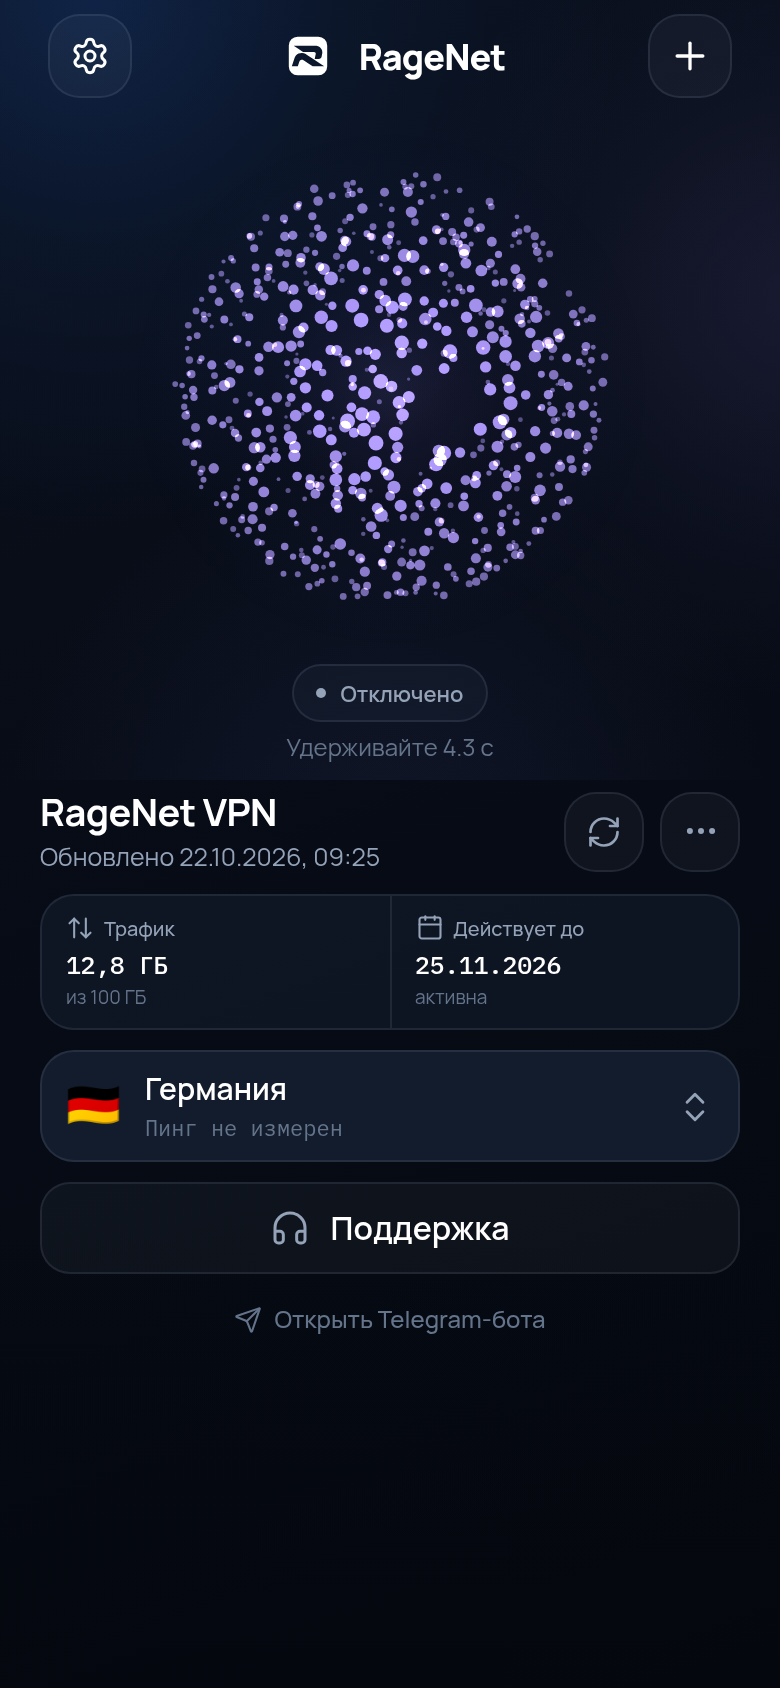
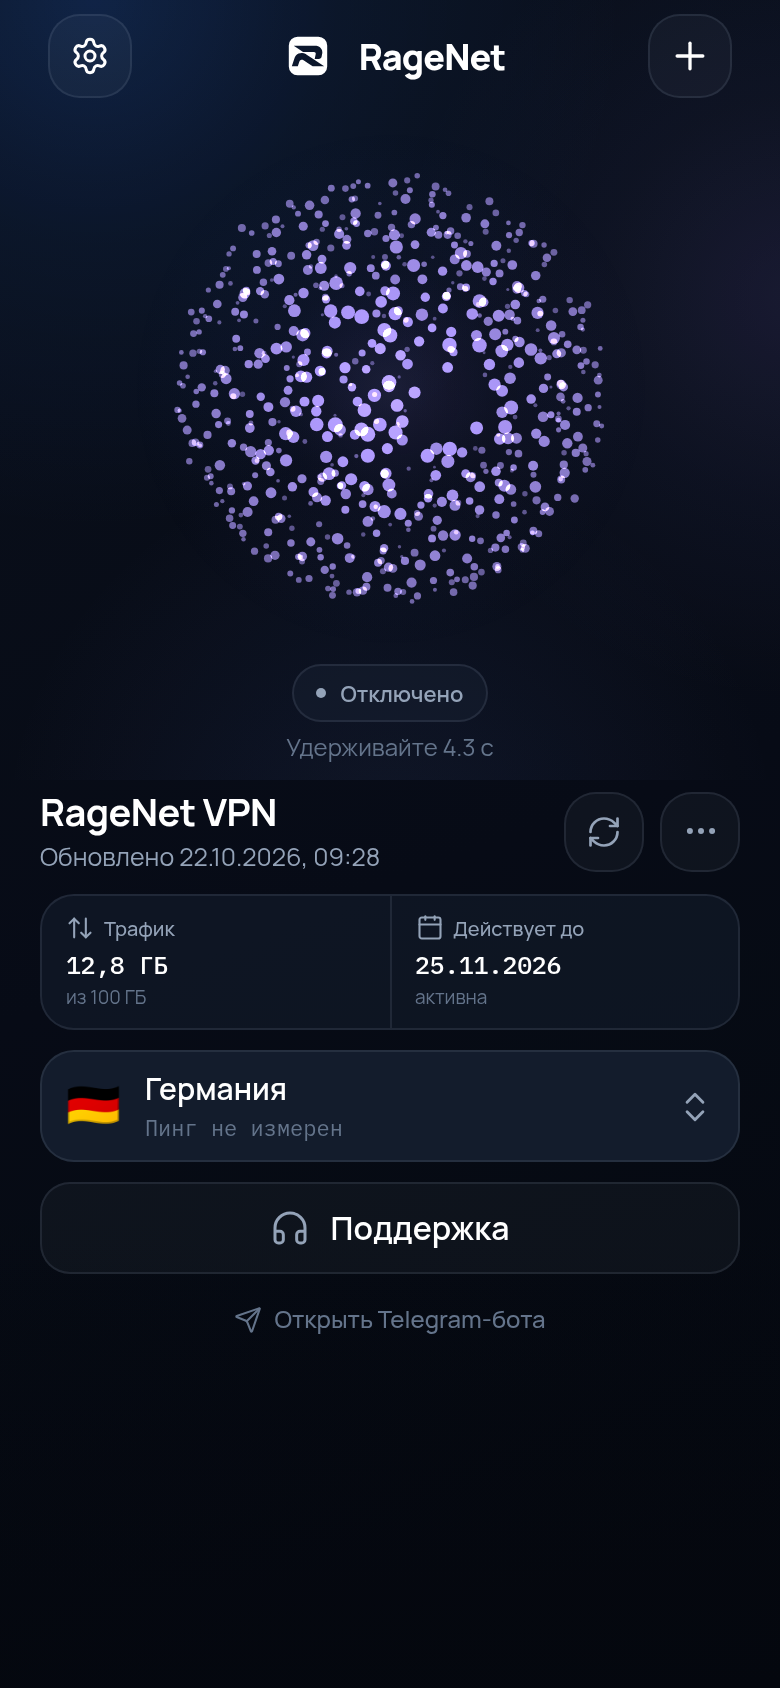
fix(ui): let the resting wave play before connecting

Changed region(s): [[0.2154, 0.0924, 0.7692, 0.3697]]

diff --git a/packages/ui/src/components/particles/ParticleSphere.tsx b/packages/ui/src/components/particles/ParticleSphere.tsx
@@ -49,6 +49,7 @@ export function ParticleSphere({
   const pressStartedAt = useRef(0);
   const holdTimer = useRef<ReturnType<typeof setTimeout> | null>(null);
   const chargeTimer = useRef<ReturnType<typeof setInterval> | null>(null);
+  const tapTimer = useRef<ReturnType<typeof setTimeout> | null>(null);
   const lastPoint = useRef<{ x: number; y: number } | null>(null);
   const pressOrigin = useRef({ x: 0.5, y: 0.5 });
   const burstFrame = useRef<number | null>(null);
@@ -91,6 +92,10 @@ export function ParticleSphere({
     if (chargeTimer.current) {
       clearInterval(chargeTimer.current);
       chargeTimer.current = null;
+    }
+    if (tapTimer.current) {
+      clearTimeout(tapTimer.current);
+      tapTimer.current = null;
     }
   };
 
@@ -252,7 +257,13 @@ export function ParticleSphere({
     if (allowTap && !wasTriggered && elapsed <= TAP_MAX_MS) {
       simulation.triggerWave(pressOrigin.current.x, pressOrigin.current.y);
       tapHaptic();
-      onToggle();
+      // Let the wave read on the resting sphere before the state colour changes.
+      burstStarted.current = true;
+      tapTimer.current = setTimeout(() => {
+        tapTimer.current = null;
+        burstStarted.current = false;
+        onToggle();
+      }, 700);
     }
     triggeredByHold.current = false;
   };

diff --git a/README.md b/README.md
@@ -2,7 +2,7 @@
 
 Кроссплатформенный клиент RageNet на React Native (мобильные) и Tauri + React Native Web (десктоп). Ядро — Xray-core через `libXray`, с встроенным TUN-инбаундом.
 
-> **Статус: Phase 0, версия 0.1.27.** Это рабочий UI-прототип и фундамент проекта, а не готовый VPN-клиент. Реальный туннель, подпись iOS и привилегированный desktop-helper ещё не подключены. План и даты — в [docs/ROADMAP.md](docs/ROADMAP.md), версии — в [docs/VERSIONING.md](docs/VERSIONING.md).
+> **Статус: Phase 0, версия 0.1.28.** Это рабочий UI-прототип и фундамент проекта, а не готовый VPN-клиент. Реальный туннель, подпись iOS и привилегированный desktop-helper ещё не подключены. План и даты — в [docs/ROADMAP.md](docs/ROADMAP.md), версии — в [docs/VERSIONING.md](docs/VERSIONING.md).
 
 ## Что уже работает
 

diff --git a/docs/ROADMAP.md b/docs/ROADMAP.md
@@ -1,7 +1,7 @@
 # RageNet app — roadmap
 
 **Статус:** Phase 0 завершён, Phase 1–2 в работе
-**Версия:** 0.1.27
+**Версия:** 0.1.28
 **Дата обновления:** 21 октября 2026
 **Репозиторий:** `ragenet-app` (клиент; backend/cabinet — в основном репозитории RageNet VPN)
 
@@ -39,7 +39,7 @@
 
 ### Phase 0 — Foundation
 
-**Статус:** done · **Версия:** 0.1.27
+**Статус:** done · **Версия:** 0.1.28
 
 - Монорепо, дизайн-система, экраны.
 - Парсер подписок и сборщик Xray-конфига.

diff --git a/CHANGELOG.md b/CHANGELOG.md
@@ -7,6 +7,14 @@ and this project adheres to [Semantic Versioning](https://semver.org/).
 
 ## [Unreleased]
 
+## [0.1.28] - 2026-10-22
+
+### Changed
+
+- Tap now plays the resting-state wave first and only then transitions into
+  the connecting colour, so the wave no longer reads as a pale flash.
+- Increased the native particle redraw rate for a smoother gather and release.
+
 ## [0.1.27] - 2026-10-22
 
 ### Changed

diff --git a/docs/PHASE0.md b/docs/PHASE0.md
@@ -1,6 +1,6 @@
 # Phase 0 — foundation
 
-**Status:** done · **App version:** 0.1.27 · **Next:** Phase 1 (Android VPN MVP)
+**Status:** done · **App version:** 0.1.28 · **Next:** Phase 1 (Android VPN MVP)
 
 See [ROADMAP.md](ROADMAP.md) for dates and [VERSIONING.md](VERSIONING.md) for
 release rules.

diff --git a/docs/BUILDS.md b/docs/BUILDS.md
@@ -94,8 +94,8 @@ Artifacts appear at the bottom of the run:
 ### Tag release
 
 ```bash
-git tag app-v0.1.27
-git push origin app-v0.1.27
+git tag app-v0.1.28
+git push origin app-v0.1.28
 ```
 
 Both workflows also run on `app-v*` tags. Artifacts are available on each run
